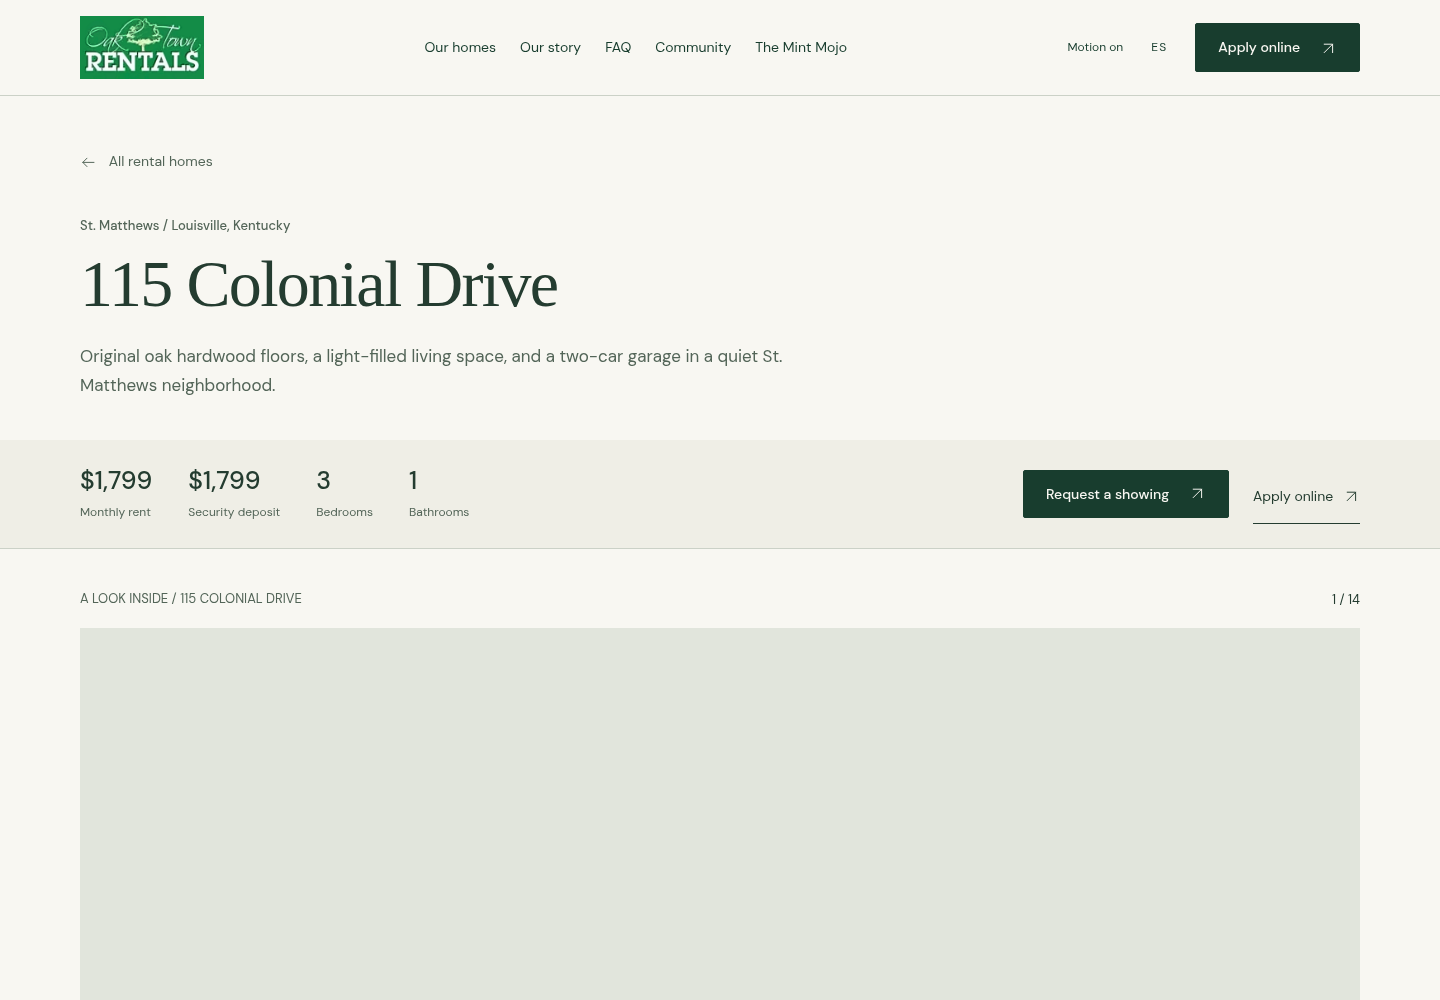
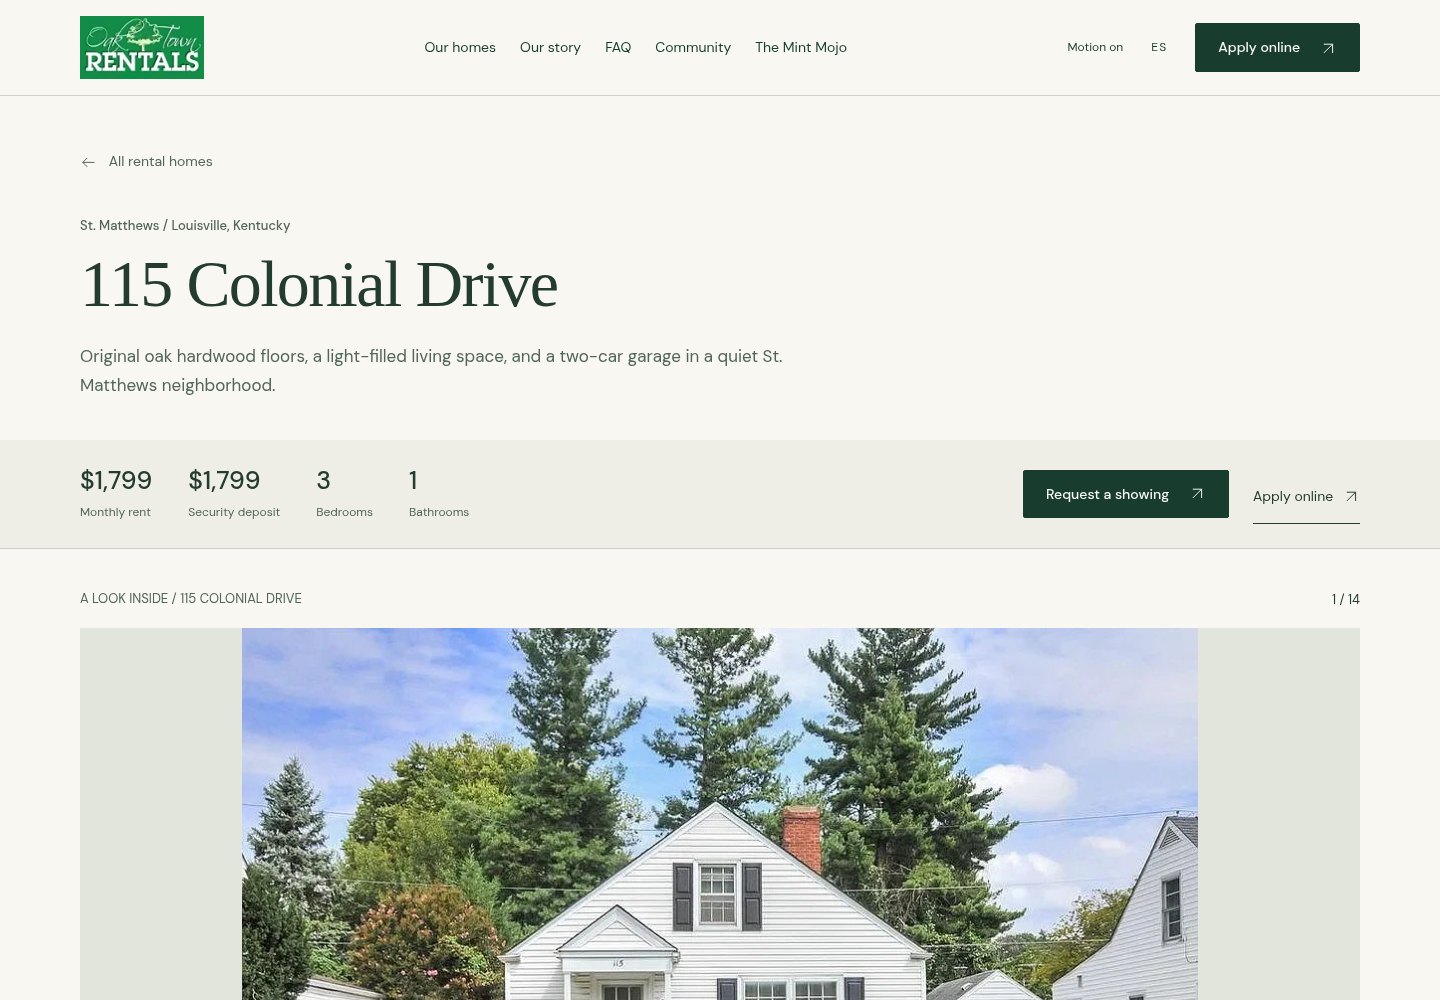
Complete real-photo design review and refresh comparison screenshots

Changed region(s): [[0.1562, 0.62, 0.8438, 1.0]]

diff --git a/docs/redesign/validation.md b/docs/redesign/validation.md
@@ -1,6 +1,6 @@
 # Validation
 
-Local review on 2026-11-14. Chromium is the installed `/usr/bin/chromium`. These checks do not establish production behavior, current availability or real-world CDN performance.
+Local review on 2026-11-14. Chromium is the installed `/usr/bin/chromium`. The existing behavior suite uses local/disposable data; the photo review uses a read-only public snapshot. These checks do not establish current availability, native Safari/Firefox behavior or uncached browser/CDN performance.
 
 ## Automated results
 
@@ -12,7 +12,9 @@ Local review on 2026-11-14. Chromium is the installed `/usr/bin/chromium`. These
 | Supplemental design suite | 35 passed: visible hero CTA, reachable navigation, keyboard photo selection in both languages at six widths; CMS empty/outage; no-JavaScript contact |
 | Admin browser workflow | Pass against disposable local harness: draft isolation, publication, photo upload/preview, archive, Spanish fallback, empty collection, responsive layouts |
 | Mint Mojo browser suite | Pass: gallery/keyboard/focus, inquiry links, dates, EN/ES, navigation, motion and six viewport widths |
-| axe-core 4.11.0, WCAG 2 A/AA + 2.1 AA + 2.2 AA tags | 0 confirmed violations across home/detail at desktop 1440 and phone 390; two gallery contrast nodes per detail scan remain “incomplete” |
+| axe-core 4.11.0, WCAG 2 A/AA + 2.1 AA + 2.2 AA tags | 0 confirmed violations in six real-photo cases: home/detail at 1440/390, home at 768 and Spanish home at 320; two gallery contrast nodes per detail scan remain “incomplete” |
+| Published photo integrity | 39/39 decoded across four properties; every gallery URL/order matches its published property; selecting the last photo opens the correct source |
+| Read-only live checks | Public `/api/properties` returns 200 with four database-backed records; anonymous `/admin/` redirects with 302 |
 | Wrangler dry-run | Pass; Worker bundle 51.48 KiB / 14.28 KiB gzip. This is a local build only, not a deployment or a public-page performance score. |
 | Protected file comparison | No changes to admin, CMS, content adapter, property records, original assets, migrations, bindings, Access or deployment configuration |
 | Whitespace/diff check | Pass |
@@ -32,17 +34,29 @@ The first manual pass also fixed mobile header crowding, excessive listing-intro
 ## Tool findings and limits
 
 - Hallmark static + rendered scan ran using a temporary Chromium wrapper matching the repository's existing no-sandbox test mode. The URL render worked; its separate `file://` attempt was blocked. Before/after source inventory retained **12/12 links and 11/11 script hooks** in the checked HTML; the broader dynamic behaviors are covered by the browser tests.
-- The combined Hallmark scan is **not passing**: it reports 201 FAIL, 193 REFLEX and 15 WARN at the evaluated snapshot. Many are retained, overridden legacy CSS or its prescribed stamp/token/word-count conventions. The rendered findings include blocked external photos, a preserved text-heavy content screen and a three-block hero (location, heading, description). The latter two are recorded design choices to retain content and local identity, not WCAG failures. Actual-photo failure is an open verification limitation. Do not describe this as a Hallmark-certified result.
+- The combined Hallmark scan is **not passing**: it reports 201 FAIL, 193 REFLEX and 15 WARN at the evaluated snapshot. Many are retained, overridden legacy CSS or its prescribed stamp/token/word-count conventions. The rendered findings include blocked external photos, a preserved text-heavy content screen and a three-block hero (location, heading, description). The latter two are recorded design choices to retain content and local identity, not WCAG failures. The photo-loading finding was resolved for this review by the real-photo captures below. Do not describe this as a Hallmark-certified result.
 - Impeccable source detection ran: 9 findings across five contrast warnings and four pattern advisories (kicker, cream palette, gradient text, dark glow). Its parser sees legacy declarations across all linked styles, including retired photo-letter/gradient rules. The rendered axe scan and manual inspection validate the current scoped colors; cream/green is an intentional brand decision. Impeccable's own browser launcher failed under this container's sandbox configuration, so there is no rendered Impeccable pass.
-- The two axe incomplete gallery nodes involve image-backed controls. Their solid cream controls/dark text and focus were inspected, but the actual photo surfaces still need a CDN-enabled review.
+- The two axe incomplete gallery nodes involve image-backed controls. Their solid cream controls/dark text and focus were inspected, and the real-photo review found the gallery labels readable on their solid surfaces. The automated incomplete results remain recorded, not converted to passes.
 - No new production libraries or fonts were added. Network-backed LCP, CLS and transfer measurements were **not** obtained; do not infer them from a local build or blocked-image test. Review native mobile Safari and Firefox before release; current automation uses Chromium.
 
-## Remaining before approval
+## Real-photo review after permissions were applied
 
-1. Apply network grants for `images.squarespace-cdn.com`, `oaktown.rentals10.workers.dev` and `api.github.com` in the environment settings. They are saved in the draft; the running environment still denies them with proxy HTTP 403.
-2. Re-capture both designs with the real source photography, inspect cropping and photo-to-unit mapping visually, and review the current CMS-backed preview read-only. No stock stand-ins were used.
-3. Open the prepared draft PR once GitHub API access works. A pushed branch comparison is not a pull request.
-4. Owner reviews the design and PR. No merge or production deployment is authorized in this phase.
+The user applied the environment permissions on 2026-11-14. GitHub API, the public preview and source-photo downloads now work. Production records were read only. Before captures use `main` at `d6fee49`; after captures use this review branch and the same public API snapshot.
+
+The container's Chromium still rejects the environment HTTPS proxy certificate. TLS validation was not disabled. Instead, a normal TLS-verified HTTP client downloaded all 39 source photos, and Playwright supplied those original bytes for the same source URLs in both local previews. These captures check layout, crops, labels and photo ownership; they are not measurements of browser TLS configuration or live CDN latency.
+
+Each gallery's complete list and order were compared with its own published record; all thumbnails decoded, and selecting the last photo resolved to the right source. Counts: Colonial Drive 14, Cherokee #6 8, Smallboat Court 7, Cherokee #8 10. Original source resolution is preserved; some interiors are lower resolution than the Colonial exterior. No AI enhancement or replacement photographs were used.
+
+The screenshot runner now waits for image decoding and fonts. Eager captures use the explicit responsive-size fallback and disable animations to avoid Chromium omitting offscreen image rasterization in full-page screenshots. Product styles and source image selections are unchanged by this capture-only adjustment.
+
+Six accessibility scans with the real photographs recorded zero confirmed A/AA violations and no horizontal overflow. The independent reviewer checked hero crops and responsive balance at desktop, tablet and phone sizes, including Spanish at 320px. Detailed results accompany this document in `axe-results.json` and `photo-review.json`.
+
+## Remaining before production
+
+1. Owner reviews the PR and design.
+2. Test native Safari and Firefox before release; current automation uses Chromium.
+3. Measure uncached network-backed performance on the approved preview or release environment. No LCP/CLS score is claimed from local mirrored-photo captures.
+4. Merge and production deployment require explicit owner approval. No admin redesign implementation is included.
 
 ## Reproduce
 
@@ -58,4 +72,4 @@ NODE_PATH="$PWD/tests/node_modules" npm run test:admin-browser
 OAKTOWN_BASE_URL=http://127.0.0.1:8794 npm --prefix tests run capture:design -- after
 ```
 
-Capture defaults to blocking external requests and labels this in the review. After network access is available, set `OAKTOWN_CAPTURE_EXTERNAL=1` for real-photo captures. For “before”, serve an exported `9af551f` tree on a different local port and pass that base URL and the `before` argument. Never point the mutation-based admin harness at production.
+Capture defaults to blocking external requests and labels this in the review. Set `OAKTOWN_CAPTURE_EXTERNAL=1` for real-photo captures. `OAKTOWN_CONTENT_SNAPSHOT` optionally points to a read-only API JSON snapshot; `OAKTOWN_PHOTO_MANIFEST` maps source photo URLs to TLS-verified local byte files with `path` and `contentType` fields. For “before”, serve an exported `d6fee49` tree on a different local port and pass that base URL and the `before` argument. Never point the mutation-based admin harness at production.

diff --git a/docs/redesign/README.md b/docs/redesign/README.md
@@ -1,10 +1,10 @@
 # Oaktown public redesign — review draft
 
-This branch improves the existing public site. It is **not deployed or merged**. Actual property-photo crop/quality review and opening the GitHub pull request remain dependent on environment network access.
+This branch improves the existing public site. It is **not deployed or merged**. Real property-photo review and refreshed desktop, tablet and mobile screenshots are complete. The branch is ready for owner review.
 
 ## Current-site audit
 
-The pre-change baseline is `9af551f`, the restored production design. Local before screenshots use its unchanged code and fallback public records; they are not production screenshots.
+The before screenshots use current `main` at `d6fee49`, including its footer-wordmark removal. Both designs render the same read-only snapshot of the four currently published properties. These are local comparison captures, not screenshots of a deployed redesign.
 
 **Keep:** original logo and green identity; bilingual property descriptions; complete unit-specific galleries; grid/gallery choice and neighborhood filters; address-specific inquiry/showing links; the existing application URL; CMS-published snapshots, failure handling and private admin boundary. The buildless frontend and local fonts are a good fit for fast delivery.
 
@@ -20,7 +20,7 @@ No stock photography, testimonials, metrics, inventory claims or new property fa
 
 ## Before / after
 
-These captures deliberately block external requests so that image-failure behavior is reproducible. **Blank labelled property-photo areas are network failure states, not proposed artwork.** Local Mint Mojo photography is included. Re-capture with the real CDN before approving photography or treating these as final visual acceptance.
+These refreshed captures include the real published property photography and local Mint Mojo images. All 39 gallery photos decoded, and gallery ownership and order match the current published records. The container browser cannot trust the environment proxy certificate, so source photographs were downloaded through a TLS-verified HTTP client and the same bytes supplied to both local previews. No image edits, stand-ins or production data changes were made. This verifies visual presentation, not uncached browser/CDN performance.
 
 | View | Before | After |
 | --- | --- | --- |
@@ -30,17 +30,19 @@ These captures deliberately block external requests so that image-failure behavi
 | Mobile, full page | [Before](screenshots/before-mobile-full.png) | [After](screenshots/after-mobile-full.png) |
 | Desktop listing | [Before](screenshots/before-desktop-listing.png) | [After](screenshots/after-desktop-listing.png) |
 | Mobile listing | [Before](screenshots/before-mobile-listing.png) | [After](screenshots/after-mobile-listing.png) |
+| Tablet, 768px | — | [After](screenshots/after-tablet.png) |
+| Spanish mobile, 320px | — | [After](screenshots/after-mobile-spanish.png) |
 
 ### Desktop after
 
-![Desktop redesign with external-photo failure state](screenshots/after-desktop.png)
+![Desktop redesign with original Colonial Drive photograph](screenshots/after-desktop.png)
 
 ### Mobile after
 
-![Mobile redesign with external-photo failure state](screenshots/after-mobile.png)
+![Mobile redesign with original Colonial Drive photograph](screenshots/after-mobile.png)
 
 ## Scope and review
 
 Public edits are `index.html`, `app.js`, `effects.js` and scoped rules in the existing `brand.css`. Tests and review documents accompany them. `/admin/`, `cms/`, `cms-client.js`, `data.js`, migrations, original media, Workers bindings, Access settings, secrets and deployment configuration are unchanged. Mint Mojo retains its existing styling because the new rules require the public catalogue's body class.
 
-The intended PR targets `main` from `design/premium-oaktown`. Merging and production deployment require owner approval. If API access remains blocked, the branch comparison is a review aid, **not an opened pull request**.
+The intended PR targets `main` from `design/premium-oaktown`. Merging and production deployment require owner approval. The original network blocks are resolved. The PR includes the full audit, resource evaluation, screenshots and admin proposal.

diff --git a/docs/redesign/pull-request.md b/docs/redesign/pull-request.md
@@ -1,20 +1,22 @@
 ## Public rental catalogue redesign
 
-The former dark, scroll-pinned introduction delayed browsing and competed with listing information. This change introduces a shorter photo-led catalogue in Oaktown green and warm ivory, clearer property cards, readable rental details, and manually selected hero photos. It preserves the existing routes, application/showing links, bilingual property content, galleries, filters and CMS integration.
+The dark, scroll-pinned introduction delayed browsing and competed with listing information. This change introduces a shorter photo-led catalogue in Oaktown green and warm ivory, clearer property cards, readable rental details, and manually selected hero photos. It preserves existing routes, application/showing links, bilingual property content, full galleries, filters and CMS integration.
 
-The public stylesheet is scoped so Mint Mojo retains its existing design. No admin implementation, property records, API/authentication, migrations, original media or deployment configuration changed. Leslie's admin proposal is documentation only.
+Public styles are scoped so Mint Mojo retains its existing design. No admin implementation, property records, API/authentication, migrations, original media or deployment configuration changed. Leslie's simplified admin proposal is documentation only. The latest footer-wordmark removal from `main` is included.
 
 ### Review material
 
-- [Audit, direction and before/after screenshots](docs/redesign/README.md)
+- [Audit, visual direction and before/after screenshots](docs/redesign/README.md)
 - [Nine-resource evaluation and tooling review](docs/redesign/research.md)
 - [Leslie’s admin proposal](docs/redesign/admin-proposal.md)
-- [Validation and limitations](docs/redesign/validation.md)
+- [Validation and remaining release checks](docs/redesign/validation.md)
 
 ### Validation
 
-44 public browser checks, 35 supplemental design checks, 3 CMS/security tests, admin browser workflow, Mint Mojo suite, syntax checks and Wrangler dry-run passed locally. Rendered axe scans found no confirmed WCAG A/AA violations across four desktop/mobile home/detail cases; two gallery contrast checks per detail scan remain incomplete. Independent review fixes cover mobile control clearance, lightbox focus contrast and accurate hero image sizing.
+44 public browser checks, 35 supplemental design checks, 3 CMS/security tests, admin browser workflow, Mint Mojo suite, syntax checks and Wrangler dry-run passed locally. Refreshed desktop/mobile captures use the current published records and original photography. All 39 gallery photos decoded, and their property ownership and order match the public records.
 
-### Draft status
+Real-photo axe scans found zero confirmed WCAG A/AA violations in six desktop/tablet/mobile cases, including Spanish at 320px. Two gallery contrast checks per detail scan remain incomplete; their solid labels were also reviewed visually. Independent review fixes cover mobile control clearance, lightbox focus contrast and hero image sizing.
 
-Do not merge or deploy without owner approval. External property photography and production preview are blocked by this environment's proxy. Screenshots clearly show reproducible failed-image states; real-photo crop/quality acceptance and CDN performance remain pending. Hallmark and Impeccable are review inputs, not claimed clean certifications; their findings and compatibility limits are documented.
+### Release boundary
+
+Owner review is pending. Do not merge or deploy without approval. Native Safari/Firefox testing and uncached network performance measurement remain release checks. Source photos were downloaded through a TLS-verified client and supplied to the local browser because its proxy CA is not trusted; screenshot results are not live CDN performance measurements. Hallmark/Impeccable findings and compatibility limits are documented without claiming a clean certification.

diff --git a/docs/redesign/research.md b/docs/redesign/research.md
@@ -21,8 +21,8 @@ Reviewed on 2026-11-14. Repositories were shallow-cloned outside the application
 - Impeccable's launcher was inspected before execution. It downloads a pinned engine and verifies SHA-256 against its checked-in manifest. Its cache was confined to `/tmp/oaktown-impeccable`. Context and source detection ran. Its own rendered launcher failed because of the container's Chromium sandbox configuration; this is reported, not counted as a pass.
 - `axe-core@4.11.0` was installed into the same temporary review-tool directory with lifecycle scripts disabled, and injected only into local test pages. It is not shipped to visitors.
 - No runtime dependencies, lockfiles, Cloudflare configuration, credentials, auth settings, migrations or production property records changed. The new test scripts use the existing Playwright dependency.
-- Network requests to the production preview, Squarespace photography CDN and GitHub API returned proxy HTTP 403. Authorized host additions were saved in the environment draft; applying them remains outside the available runtime tools.
+- The initial environment denied production preview, photography CDN and GitHub API requests. After the user applied the environment permissions, these services became reachable. A read-only public API snapshot and TLS-verified source-photo downloads support the refreshed review; the browser proxy CA limitation is documented in validation.
 
 ## Applying the tools with judgment
 
-Hallmark's checked rules flag the retained legacy CSS (including rules overridden by the scoped redesign), its own required stamp conventions, preserved paragraph lengths, and unavailable external imagery. Its combined final scan is **not green**. Impeccable's source scan similarly sees unused dark/gradient declarations from the retained styles. These results are recorded as review evidence, not an invented quality score. Rendered browser checks, axe, the existing test suite and independent review establish the behaviors actually verified; real-photo acceptance remains open.
+Hallmark's checked rules flag the retained legacy CSS (including rules overridden by the scoped redesign), its own required stamp conventions, preserved paragraph lengths, and unavailable external imagery. Its combined final scan is **not green**. Impeccable's source scan similarly sees unused dark/gradient declarations from the retained styles. These results are recorded as review evidence, not an invented quality score. Rendered browser checks, axe, the existing test suite and independent review establish the behaviors actually verified; real-photo composition and all 39 gallery sources have since been checked. Owner approval and native Safari/Firefox testing remain open.

diff --git a/DESIGN.md b/DESIGN.md
@@ -22,4 +22,4 @@ Photographs come from the same property's current records. Never substitute anot
 
 ## Review status
 
-This is a review branch, not an approved production release. See `docs/redesign/README.md` for tests, screenshots, reference evaluation and outstanding network-dependent checks. Real-photo composition is not signed off while the property CDN is inaccessible.
+This is a review branch, not an approved production release. See `docs/redesign/README.md` for tests, screenshots, reference evaluation and outstanding network-dependent checks. Real-photo composition has been reviewed on desktop, tablet and phone using the current published photos. Owner approval remains pending.
